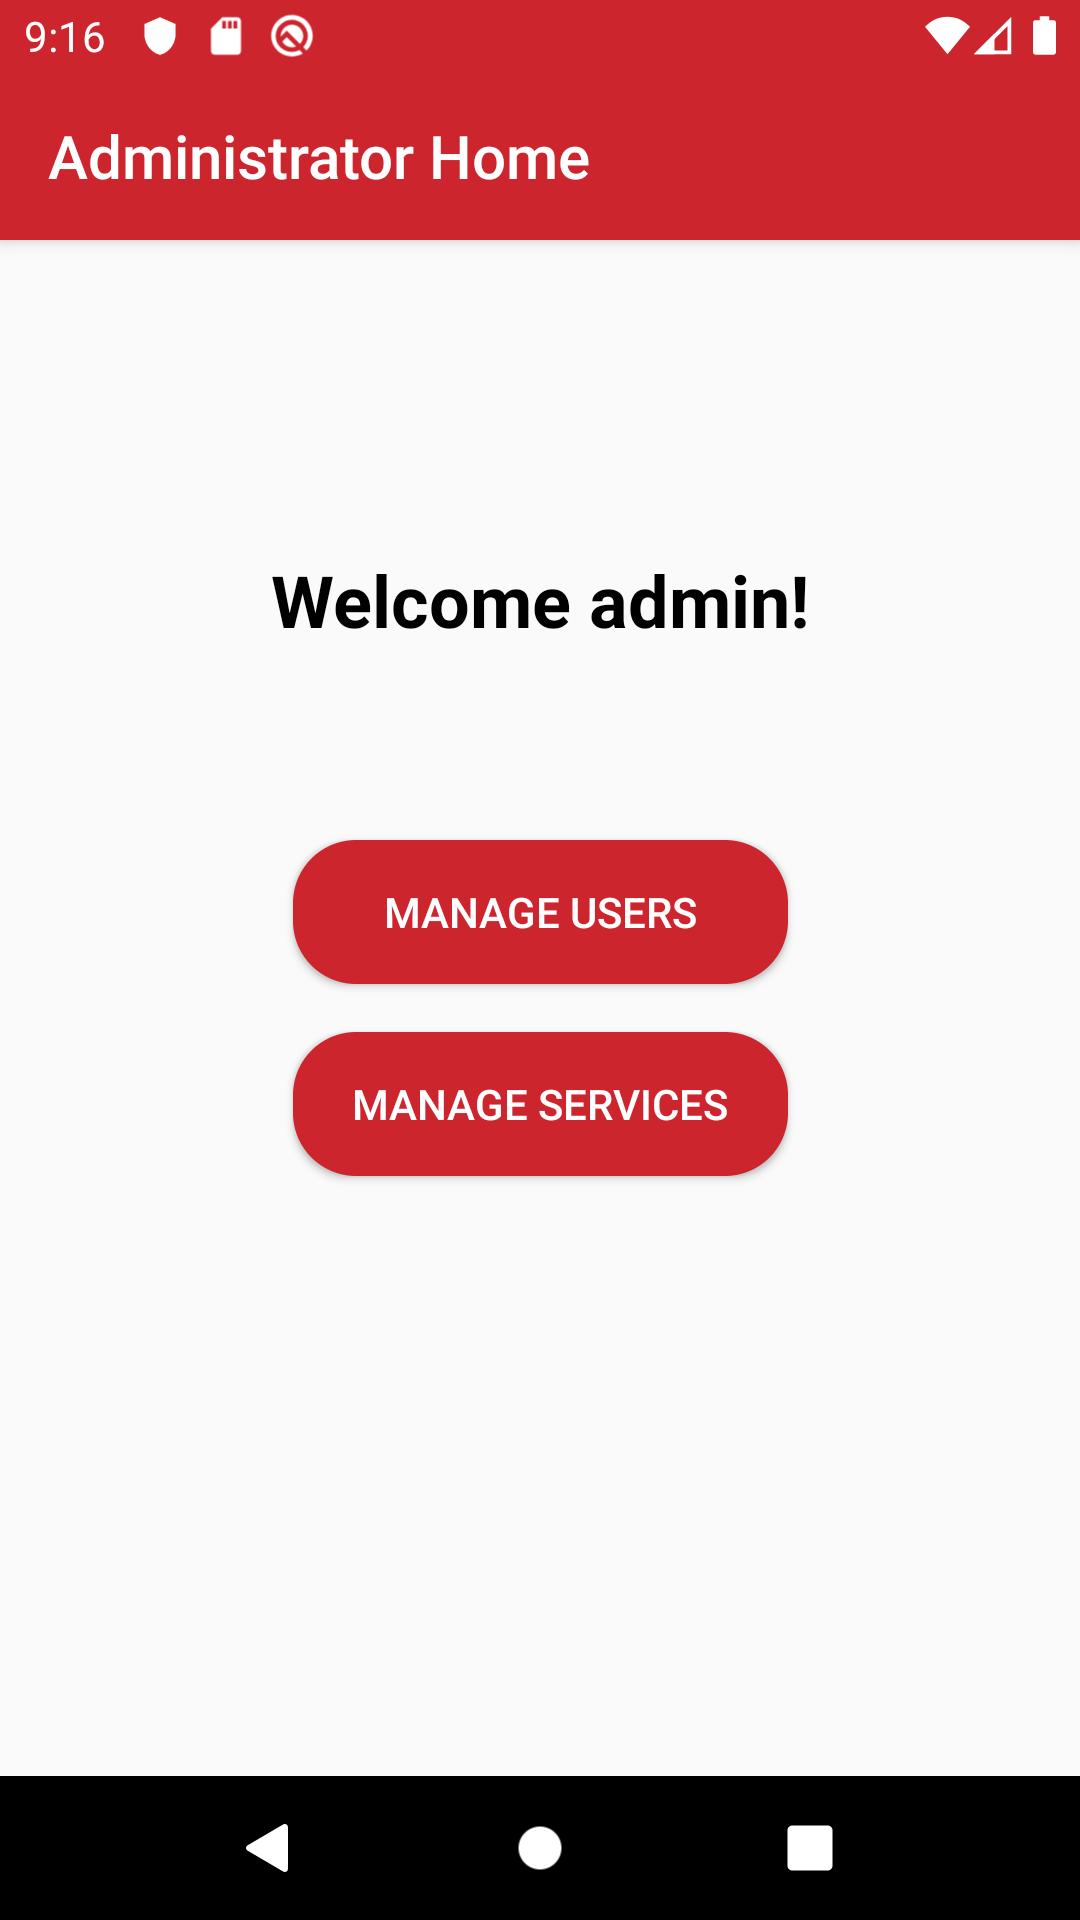
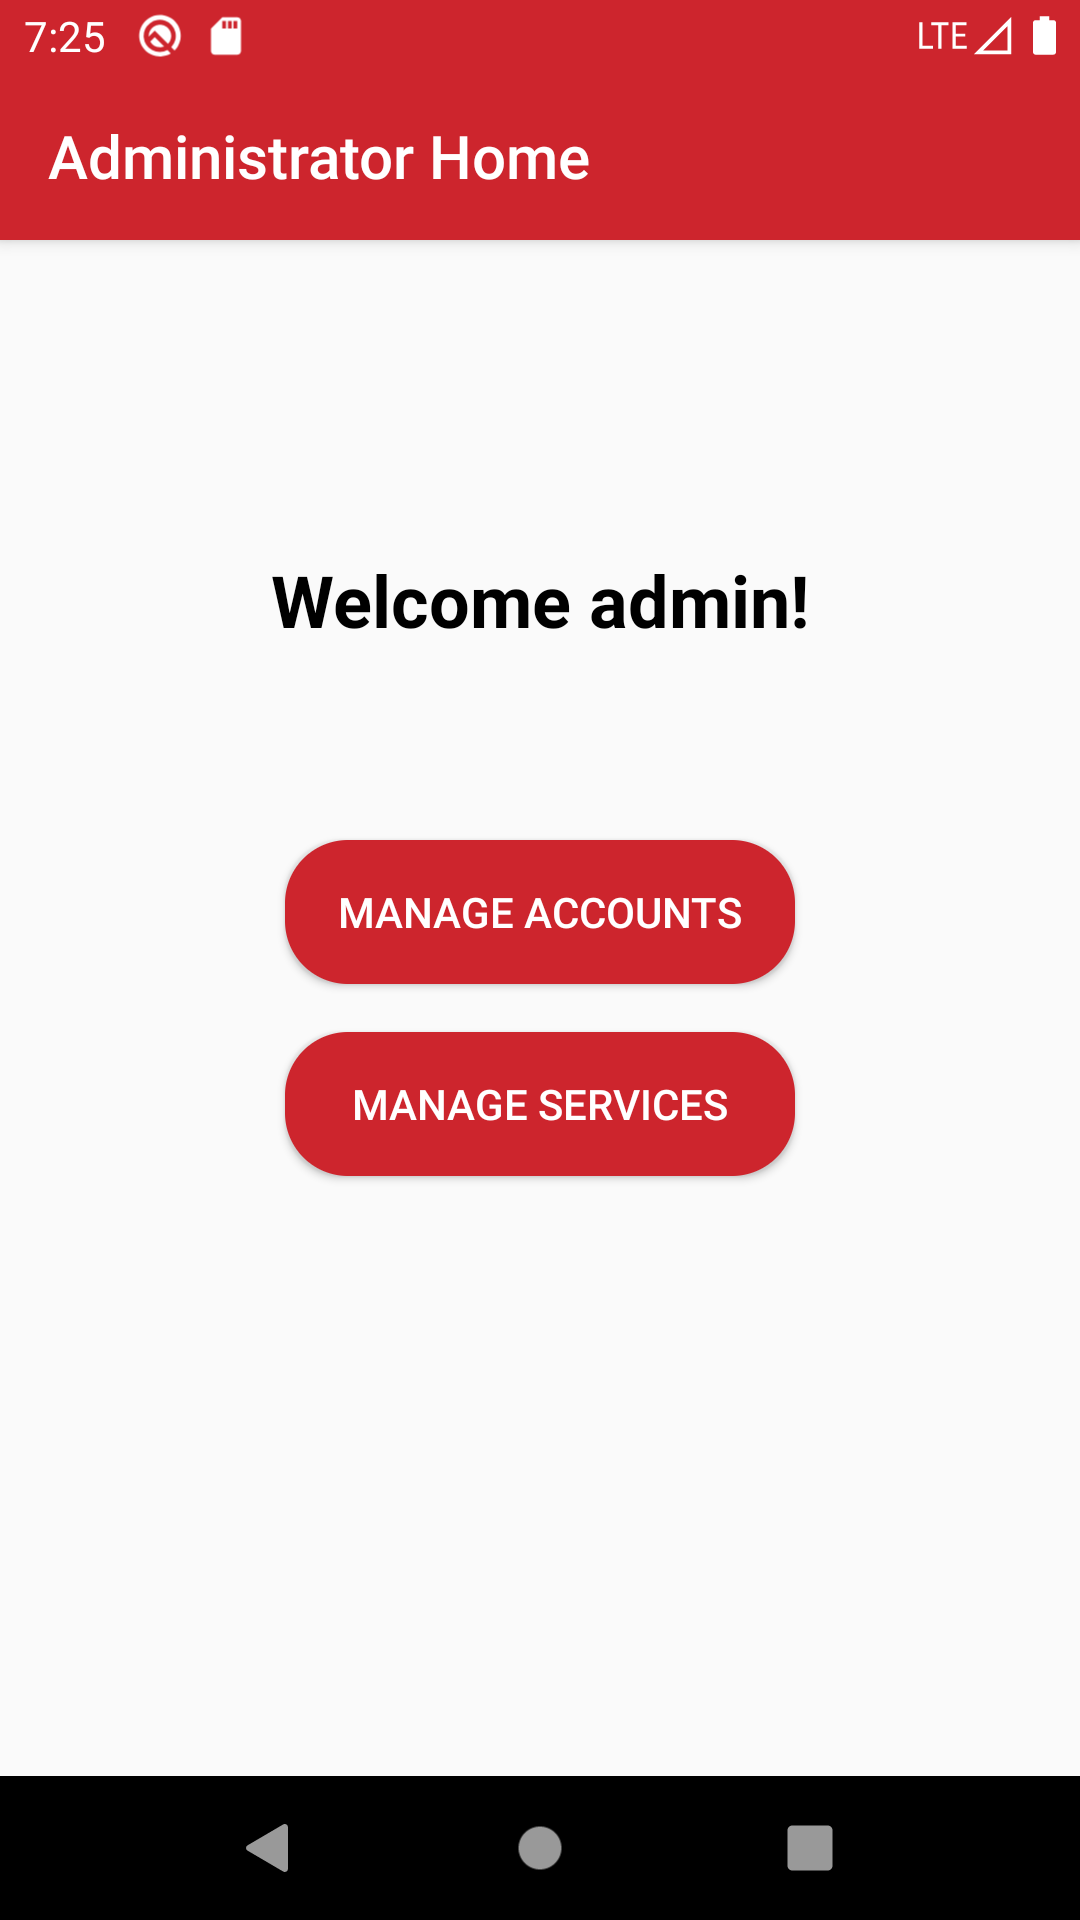
Updated README with new screenshots and UML

diff --git a/app/src/main/java/com/uottawa/clinigo/model/Admin.java b/app/src/main/java/com/uottawa/clinigo/model/Admin.java
@@ -1,9 +1,23 @@
 package com.uottawa.clinigo.model;
 
+import java.util.ArrayList;
+import java.util.List;
+
 public class Admin extends User {
+
+    private List<Service> services;
 
     public Admin(String id, String email, String firstName, String lastName) {
         super(id, email, firstName, lastName);
         setRole("Admin");
+        services = new ArrayList<>();
+    }
+
+    public void addService(Service service) {
+        services.add(service);
+    }
+
+    public void deleteService(Service service) {
+        services.remove(service);
     }
 }

diff --git a/README.md b/README.md
@@ -1,6 +1,6 @@
 # Project-Camel
 
-Our team developed an app to address the need for people to know waiting times at nearby walk-in clinics without having to leave their home. It also allows users to know the services offered by nearby walk-in clinics and allow them to check-in/book appointments at the clinic of their choice. 
+Our team developed an app to address the need for people to know wait times at nearby walk-in clinics without having to leave their home. It also allows users to know the services offered by nearby walk-in clinics and allow them to check-in/book appointments at the clinic of their choice. 
 
 We present to you: `Clinigo`
 
@@ -10,6 +10,8 @@ We present to you: `Clinigo`
 
 ## Team Members
 
+<center>
+
 | Name | Student Number |
 | --- | --- |
 | Eric Haggar | 7674509 |
@@ -17,6 +19,8 @@ We present to you: `Clinigo`
 | Mark Bastawros | 8123595 |
 | Lev Guzman Aparicio   |  300038033 |
 | Siraj Ghassel   |  8168653 |
+
+</center>
 
 ## Table Of Contents
 
@@ -27,6 +31,7 @@ We present to you: `Clinigo`
     - [UML Diagram](#uml-diagram)
     - [Activities Screenshots](#activities-screenshots)
   - [Deliverable 2](#deliverable-2)
+    - [Admin Account](#admin-account)
     - [UML Diagram](#uml-diagram-1)
     - [Activities Screenshots](#activities-screenshots-1)
 
@@ -42,7 +47,9 @@ Each user has a first name, last name, email and password.
 
 The UML diagram for this deliverable is shown below:
 
-![UML](screenshots/UML_Deliverable01.png)
+<p align="center">
+    <img src="screenshots/UML_Deliverable01.png"/> 
+</p>
 
 ### Activities Screenshots
 
@@ -76,36 +83,46 @@ We took multiple screenshots to demonstrate the different features and their fun
 
 ## Deliverable 2
 
-The second deliverable concentrates on creating and editing services whilst storing them into a database (Firebase).
-Only one admin account exists but many patient and employee accounts can be created and deleted at will.
-Each user has a first name, last name, email and password. 
-CircleCI was utilized to build and test the app. 
+The second deliverable concentrates on the admin features. The admin can create and edit services as well as delete accounts (walk-in clinic employees and patients). 
+
+`CircleCI` was utilized to run unit tests and builds can be found [here](https://circleci.com/gh/professor-forward)
+
+### Admin Account
+
+There is only 1 admin account and the credentials are:
+
+```
+Email: admin@admin.com
+Password: 5T5ptQ
+```
 
 ### UML Diagram
 
 The UML diagram for this deliverable is shown below:
 
-![UML](screenshots/UML_Deliverable02.png)
+<p align="center">
+    <img src="screenshots/UML_Deliverable02.png"/> 
+</p>
 
 ### Activities Screenshots
 
 1. Admin Homepage 
 
-    <p align="center">
-        <img src="screenshots/admin_home_page.png" height="400" /> 
-    </p>
+<p align="center">
+    <img src="screenshots/admin_home_page.png" height="400" /> 
+</p>
     
-2. Manage Service Activities
+2. Manage Services Activity
 
-    <p align="center">
-        <img src="screenshots/list_service.png" height="400" /> 
-        <img src="screenshots/add_services.png" height="400" />
-        <img src="screenshots/delete_service.png" height="400" /> 
+<p align="center">
+    <img src="screenshots/list_service.png" height="400" /> 
+    <img src="screenshots/add_services.png" height="400" />
+    <img src="screenshots/delete_service.png" height="400" /> 
     </p>
 
-3. Manage User Activities
+3. Manage Users Activity
 
-    <p align="center">
-        <img src="screenshots/list_users.png" height="400" />
-        <img src="screenshots/delete_user.png" height="400" /> 
-    </p>
+<p align="center">
+    <img src="screenshots/list_accounts.png" height="400" />
+    <img src="screenshots/delete_account.png" height="400" /> 
+</p>
